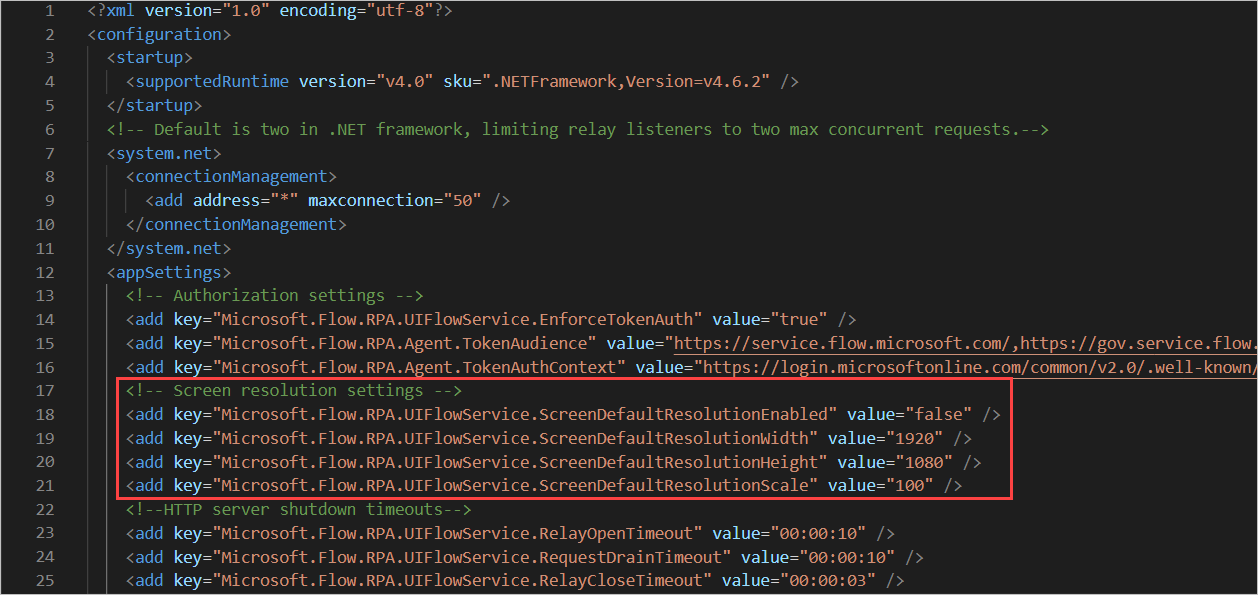
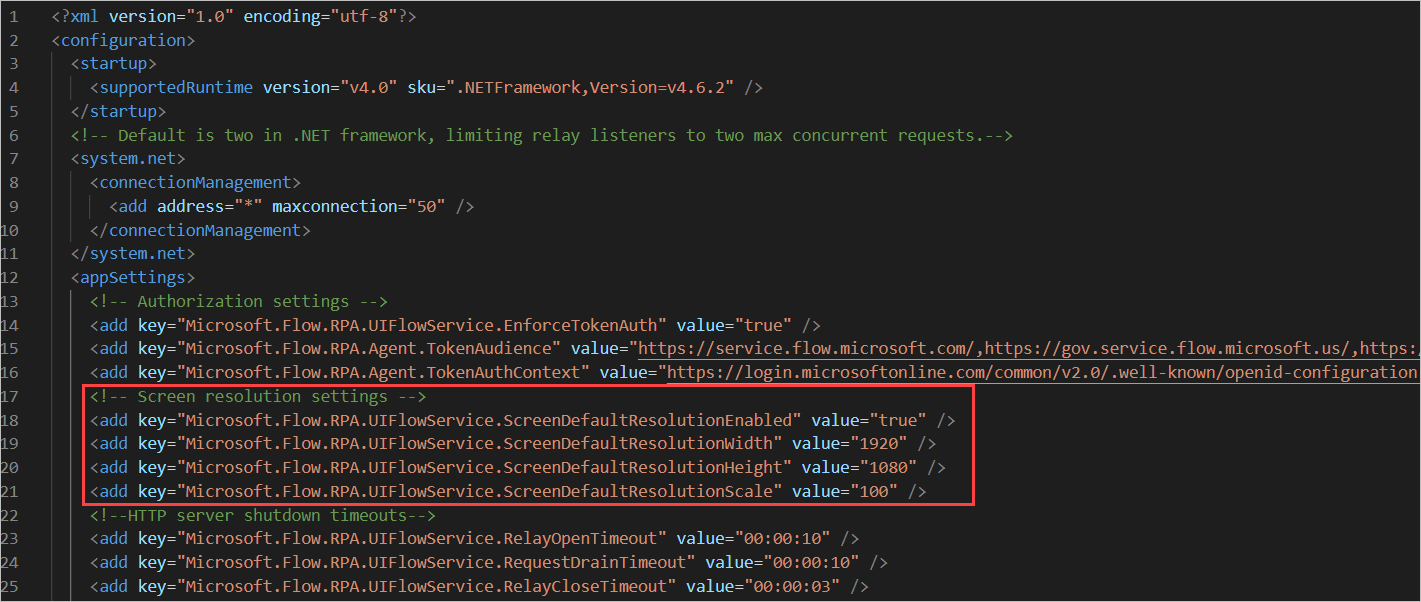
Corrections in et screen resolution on unattended flows

Changed region(s): [[0.0, 0.0, 1.0, 0.9983]]

diff --git a/articles/desktop-flows/how-to/set-screen-resolution-unattended-flows.md b/articles/desktop-flows/how-to/set-screen-resolution-unattended-flows.md
@@ -17,9 +17,7 @@ search.audienceType:
 
 # Set screen resolution on unattended flows
 
-In some scenarios, Power Automate Desktop may run unattended flows in a lower resolution than the one used to develop the flows. 
-
-As a result, some UI elements could be hidden from the screen and cause flows to fail.
+In some scenarios, Power Automate Desktop may run unattended flows in a lower resolution than the one used to develop the flows. As a result, some UI elements could be hidden from the screen and cause flows to fail.
 
 To change the resolution in which unattended flows are run:
 
@@ -29,11 +27,10 @@ To change the resolution in which unattended flows are run:
 
    ![The appropriate keys in the UIFlowService.exe.config file.](media/set-screen-resolution-unattended-flows/ui-flow-service-file.png)
 
-
-
-
 1. Change the values of the following keys to the proper width, height, and scale, respectively:
 
     - **Microsoft.Flow.RPA.UIFlowService.ScreenDefaultResolutionWidth**
     - **Microsoft.Flow.RPA.UIFlowService.ScreenDefaultResolutionHeight**
     - **Microsoft.Flow.RPA.UIFlowService.ScreenDefaultResolutionScale**
+
+1. Restart Power Automate Desktop.
